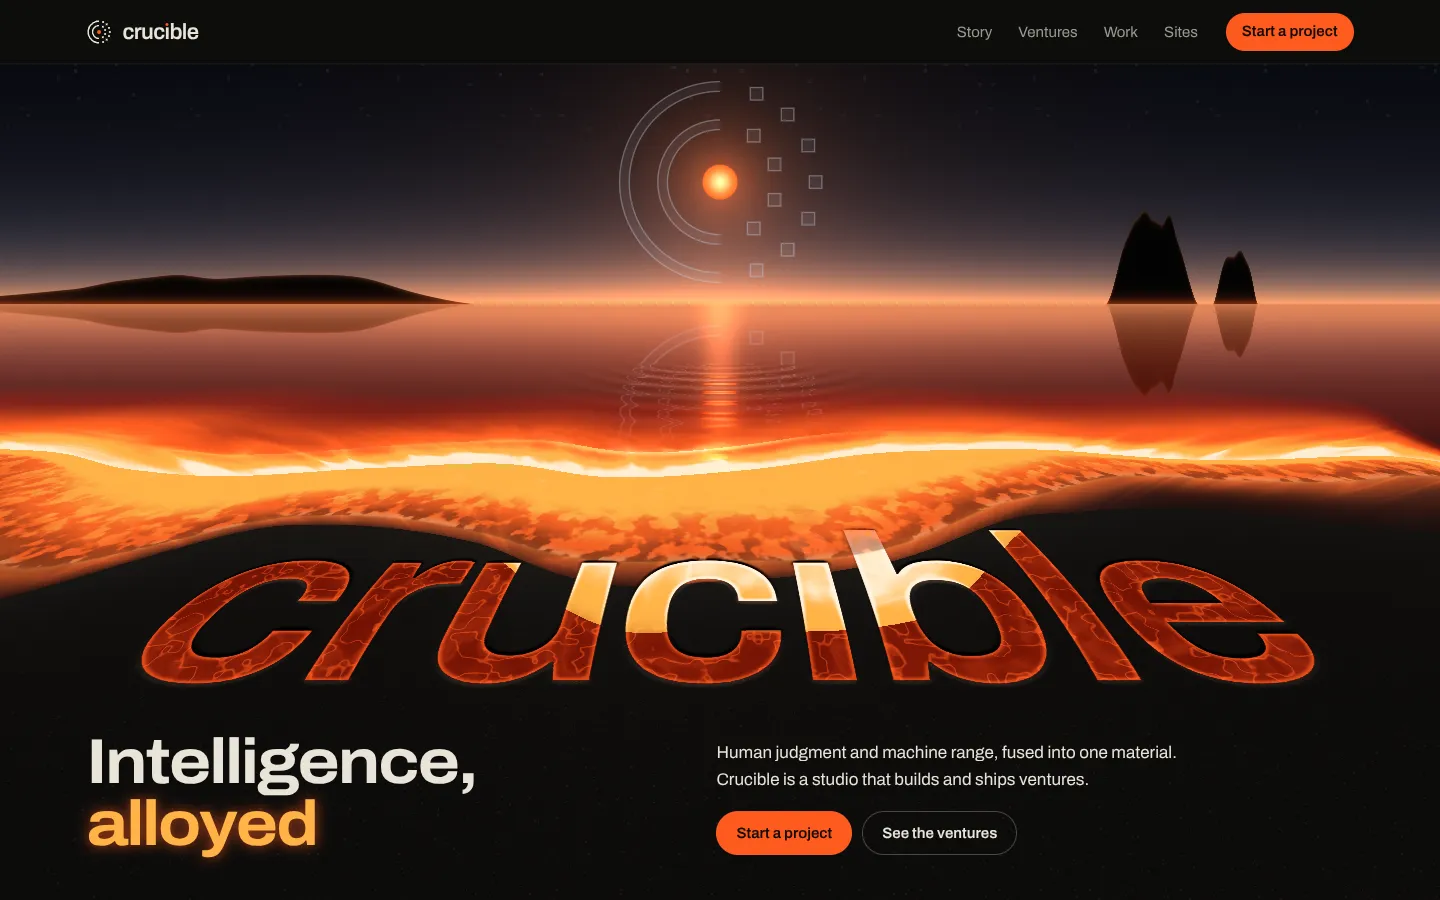
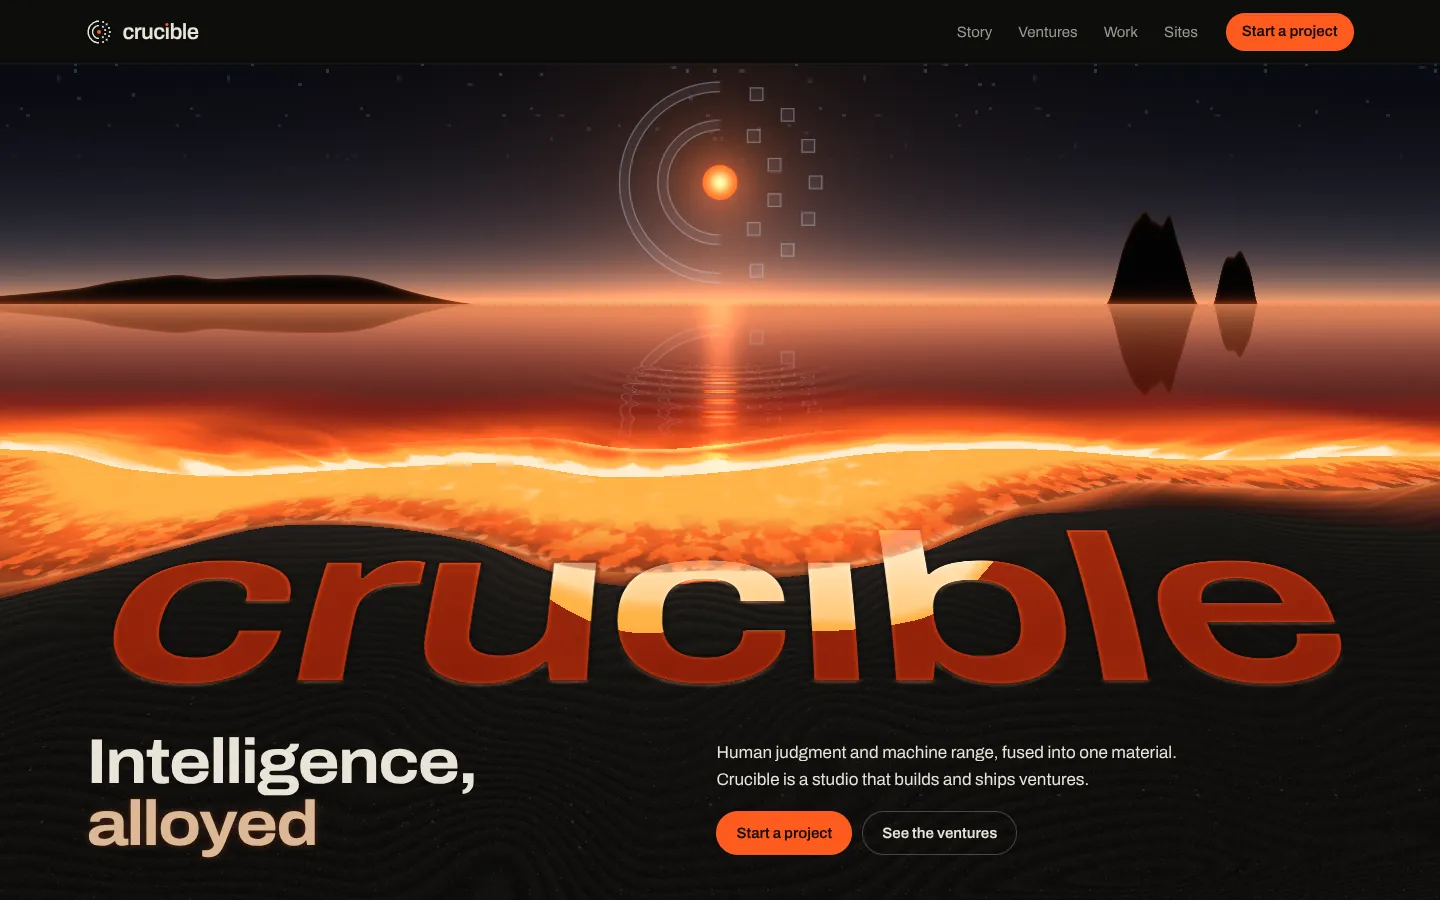
Black Sand v3: no edge fringe in the hero sea, textured sand, the wordmark as a clean sand mould
- the page-edge coast no longer reaches into the hero's perspective sea (no bright strips at its edges)
- the sand everywhere: grain, ripple marks lit from the surf, a warm wash from the fringe, rare cold sparkle
- the wordmark keeps its proportions (mild slant), crisp sand walls lit from the sea, a smooth fill with a
  soft cooling skin (no crack texture, no dark outline), an Ember dot
- slow-wake frames re-recorded

Claude-Session: https://claude.ai/code/session_01PrrUSitYmSR7aDjHHAhibr

diff --git a/concepts/blacksand/index.html b/concepts/blacksand/index.html
@@ -403,7 +403,7 @@ uniform float uHor, uHB, uDepth, uF, uNav;
 uniform vec3 uSun;          // sky px: x (from centre), y (above horizon), core radius
 uniform vec2 uSunG;         // ground point under it, where the ripples start
 uniform vec4 uShore;        // hero shore Z, hero run-up, footer shore Z, footer run-up
-uniform vec2 uStrip;        // strip run-up, coast texture length
+uniform vec3 uStrip;        // strip run-up, coast texture length, where the coast down the page begins (ground Z)
 uniform sampler2D uCoast;   // per 8 px of page: coast X, its slope, the run-up there (32-bit, interpolated here)
 uniform sampler2D uSim;     // r h, g h_prev, b furrow
 uniform vec4 uSimM;         // cell px, rem px, grid w, grid h (cells)
@@ -568,7 +568,7 @@ void main(){
   // ---------------- the coast ----------------
   float s1 = uShore.x + uShore.y*(.16*sin(G.x*.0021 + 1.3) + .09*sin(G.x*.0057 + 4.) + .12*(noise(vec2(G.x*.004, 9.)) - .5)) - G.y;       // hero shore, sea is far
   vec4 cc = coastAt(G.y);
-  float s2 = (G.x - cc.x)/sqrt(1. + cc.y*cc.y);                                  // the shore down the page, sea right
+  float s2 = G.y < uStrip.z ? -1e5 : (G.x - cc.x)/sqrt(1. + cc.y*cc.y);   // none inside the hero's sea                                  // the shore down the page, sea right
   float s3 = G.y - uShore.z;                                                     // the page's end, sea below
   float s = smax(smax(s1, s2, 160.), s3, 160.);
   float w1 = smoothstep(-60., 60., s1 - max(s2, s3)), w3 = smoothstep(-60., 60., s3 - max(s1, s2));
@@ -675,12 +675,22 @@ void main(){
     // black volcanic sand: grain at ~1.6 px, sparse glints
     float gr = noise(G*.62)*.6 + noise(G*1.7)*.4;
     gr = mix(.5, gr, 1. - smoothstep(1., 3., foot));
-    vec3 sand = vec3(.045, .042, .038)*(.72 + .56*gr);
-    // light from the surf on the sand
-    float glow = exp(-max(L - max(E, 0.), 0.)/110.)*.55 + exp(-L/420.)*.22;
+    vec3 sand = vec3(.05, .047, .042)*(.62 + .8*gr);
+    // ripple marks the tide left, parallel to the shore, their faces lit from the surf's side (band-limited)
+    float rw = 17. + 5.*noise(G*.006 + 11.);
+    float rph = (L + 5.*noise(G*.008) + 2.*noise(G*.03))*6.2832/rw;
+    float rAmp = (.45 + .55*noise(G*.004 + 5.))*(1. - smoothstep(.12, .25, foot/rw))*(1. - exp(-max(L, 0.)/40.));
+    float face = sin(rph) + .35*sin(2.*rph);
+    sand *= 1. + .2*face*rAmp;
+    // light from the surf on the sand: the near glow and a soft warm wash a few hundred px across it
+    float glow = exp(-max(L - max(E, 0.), 0.)/110.)*.55 + exp(-L/320.)*.3 + exp(-L/900.)*.08;
     glow *= heatK;
     vec3 warm = vec3(1., .42, .16);
-    col = sand*(1. + glow*2.2) + warm*glow*.022;
+    col = sand*(1. + glow*2.4) + warm*glow*.026;
+    // a very rare cold sparkle (Quench): starlight in a grain
+    vec2 sc2 = floor(G*.35);
+    float spk = step(.9975, hash(sc2 + 17.))*(1. - smoothstep(1.2, 2.4, foot));
+    col += QUENCH*spk*(.5 + .5*sin(t*1.7 + hash(sc2)*40.))*.16*(1. - glow);
     // glints in the grain: warm toward the surf, cold (Quench) from the sky away from it
     float gl = step(.985, hash(floor(G*.55)))*(1. - smoothstep(1., 2.2, foot));
     float tw = .5 + .5*sin(t*2. + hash(floor(G*.55) + 3.)*30. + css.y*.05);
@@ -708,8 +718,10 @@ void main(){
         vec3 metal = blackbody(.6 + .14*sin(bz.y*40. - t*3.) + .18*hov);
         col = mix(col + warm*.05*exp(-max(dd, 0.)/6.), metal, m);
       }
-      if (G.x < R.x || G.x > R.z || G.y < R.y || G.y > R.w) continue;
-      vec2 f = (G - R.xy)/(R.zw - R.xy);
+      // the wordmark keeps most of its true proportions: its sides converge only a little (a subtler slant)
+      vec2 Gt = i == 0 ? vec2(uView.x*.5 + (css.x - uView.x*.5)/pow(w, .3), G.y) : G;
+      if (Gt.x < R.x || Gt.x > R.z || Gt.y < R.y || Gt.y > R.w) continue;
+      vec2 f = (Gt - R.xy)/(R.zw - R.xy);
       vec2 uv = mix(uTA[i].xy, uTA[i].zw, f);
       vec4 a = texture(uAtlas, uv);
       vec2 tx = vec2(1.5/2048., 1.5/1024.);
@@ -720,11 +732,11 @@ void main(){
       float kd = uTP[i].w;
       vec3 nrm = normalize(vec3(rg.x*kd, 1., rg.y*kd));
       vec3 Ld = normalize(vec3(toSea.x, .55, toSea.y));
-      float sh = max(dot(nrm, Ld), 0.)/Ld.y;
+      float sh = clamp(max(dot(nrm, Ld), 0.)/Ld.y, .78, 2.2);   // lit wall bright, the far wall only a little shaded
       float mode = uTP[i].x, hov = uTP[i].z;
       // the walls of the mould catch the glow; the far wall from the light falls into shadow
       float wall = smoothstep(.0, .25, a.r)*(1. - a.g);
-      col = mix(col, col*sh*1.15 + warm*.06*max(sh - 1., 0.)*glow*4., wall);
+      col = mix(col, col*sh + warm*.13*max(sh - 1., 0.)*(.5 + glow*2.) + vec3(.5, .45, .4)*.02*max(sh - 1., 0.), wall);   // sand walls: the face toward the surf lit warm
       float m = a.g;
       vec3 metal;
       float rim = smoothstep(.5, 1., a.g)*(1. - smoothstep(.6, .98, a.r));
@@ -736,15 +748,16 @@ void main(){
         float dt2 = sinceLeft(Le, tau, A, aU, E2, up2, Ac2);
         float hT = exp(-dt2/3.2);
         // cooling metal grows a dark skin; its cracks and the rim against the wall stay bright longest
-        vec2 lp = uv*vec2(2048., 1024.)/26.; float cells = noise(lp + vec2(t*.05, 0.))*.65 + noise(lp*2.3)*.35;
-        float crk = 1. - smoothstep(.0, .05, abs(cells - .5));
-        float skin = smoothstep(.8, .3, hT)*(1. - crk);
-        float tmL = mix(.46, .93, hT) + .05*veins + rim*.1;
-        metal = mix(blackbody(tmL), blackbody(.30 + .1*veins), skin*(1. - rim*.7)*.8);
+        // a clean fill: a smooth glow that grows a soft skin as it cools, the edges against the wall last
+        vec2 lp = uv*vec2(2048., 1024.)/140.;
+        float skinN = noise(lp + vec2(t*.03, 0.))*.6 + noise(lp*2.1)*.4;
+        float skin = smoothstep(.85, .25, hT)*(.75 + .25*skinN);
+        float tmL = mix(.48, .93, hT) + rim*.015 + (.6 - f.y)*.1;   // hotter where it came in, at the top
+        metal = mix(blackbody(tmL), blackbody(.36 + .06*skinN), skin*(1. - rim*.6)*.8);
         typeHot = m;
         // the dot of the i: the core, always hot
         float dot_ = a.b;
-        metal = mix(metal, mix(vec3(1., .357, .122), vec3(1., .78, .5), smoothstep(.5, 1., a.b)*.6), smoothstep(.2, .8, dot_));
+        metal = mix(metal, vec3(1., .357, .122)*1.05, smoothstep(.2, .8, dot_));
         m = max(m, smoothstep(.2, .6, a.b));
       } else if (mode < 1.5){
         // Crucible Sites: cast and cooled to bone, sand grain in its face
@@ -972,7 +985,7 @@ function buildAtlas(ventureEls) {
       }
     }
   };
-  for (let p = 0; p < 3; p++) { blur(soft, tmp, 5, true); blur(tmp, soft, 5, false); }
+  for (let p = 0; p < 3; p++) { blur(soft, tmp, 4, true); blur(tmp, soft, 4, false); }
   const out = new Uint8Array(N * 4);
   for (let i = 0; i < N; i++) { out[i * 4] = Math.round(Math.min(1, soft[i] * 1.0) * 255); out[i * 4 + 1] = img.data[i * 4]; out[i * 4 + 2] = dimg.data[i * 4]; out[i * 4 + 3] = 255; }
   if (!atlasTex) atlasTex = tex(W, H, gl.RGBA8, gl.RGBA, gl.UNSIGNED_BYTE, gl.LINEAR, out);
@@ -1022,10 +1035,10 @@ function layout() {
     const e = AT.entries[0];
     const wScr = Math.min(L.W - (phone ? 56 : 2 * Math.max(20, L.W * 0.05)), 1500);
     const wb = gW(yWB);
-    const Wg = wScr / wb, Hg = Wg / e.aspect;
+    const Wg = wScr / Math.pow(wb, 0.3), Hg = (wScr / wb) / e.aspect;   // lateral: the shader's milder convergence
     const Zb = gZ(yWB), Zt = Zb - Hg;
     const X0 = L.W / 2 - Wg / 2;
-    L.types.push({ R: [X0, Zt, X0 + Wg, Zb], A: [e.u0, e.v0, e.u1, e.v1], P: [0, Zt + Hg * e.topFrac - shoreZ, 0, 10] });
+    L.types.push({ R: [X0, Zt, X0 + Wg, Zb], A: [e.u0, e.v0, e.u1, e.v1], P: [0, Zt + Hg * e.topFrac - shoreZ, 0, 14] });
     // the run-up reaches into the tops of the letters on most waves
     L.shore[1] = Math.max(30, (Zt + Hg * e.topFrac - shoreZ) * 1.35);
     // venture names
@@ -1033,7 +1046,7 @@ function layout() {
       const en = AT.entries[i + 1]; if (!en) return;
       const r = pageRect(el), p = en.padG;
       const mode = i === 0 ? 1 : 2;
-      L.types.push({ R: [r.x0 - p, r.y0 - p, r.x1 + p, r.y1 + p], A: [en.u0, en.v0, en.u1, en.v1], P: [mode, 0, 0, 7], el: ventureEls[i], hov: 0 });
+      L.types.push({ R: [r.x0 - p, r.y0 - p, r.x1 + p, r.y1 + p], A: [en.u0, en.v0, en.u1, en.v1], P: [mode, 0, 0, 5], el: ventureEls[i], hov: 0 });
     });
   }
   // the coast down the page: hugs the right edge of everything on the sand, opens into coves between sections
@@ -1063,6 +1076,7 @@ function layout() {
   const base = L.W * (phone ? 0.96 : 0.95);
   const cove = phone ? L.W * 0.56 : L.W * 0.62;
   const stripStart = L.HB - (phone ? 0 : L.H * 0.1);
+  L.stripStart = stripStart;
   const arr = new Float32Array(N);
   for (let i = 0; i < N; i++) {
     const Z = i * 8;
@@ -1321,7 +1335,7 @@ function render() {
   gl.uniform3f(u.uSun, L.sun[0], L.sun[1] + bob, L.sun[2]);
   gl.uniform2f(u.uSunG, L.sunG[0], L.sunG[1]);
   gl.uniform4f(u.uShore, L.shore[0], L.shore[1], L.shore[2], L.shore[3]);
-  gl.uniform2f(u.uStrip, L.stripA, L.coastN);
+  gl.uniform3f(u.uStrip, L.stripA, L.coastN, L.stripStart);
   gl.activeTexture(gl.TEXTURE1); gl.bindTexture(gl.TEXTURE_2D, coastTex); gl.uniform1i(u.uCoast, 1);
   gl.activeTexture(gl.TEXTURE2); gl.bindTexture(gl.TEXTURE_2D, SIM.on ? SIM.tex[SIM.cur] : coastTex); gl.uniform1i(u.uSim, 2);
   gl.uniform4f(u.uSimM, SIM.cell, SIM.rem * SIM.cell, SIM.gw, SIM.gh); gl.uniform1f(u.uSimOn, SIM.on ? 1 : 0);

diff --git a/concepts/blacksand/NOTES.md b/concepts/blacksand/NOTES.md
@@ -41,8 +41,12 @@ atlas and a 1-D coast profile):
 - **The coast through the page**: a thin, quiet fringe (5% of the width, 4% on phones) beside reading sections, coves
   between sections, and one bay at the ventures (`data-cove`). The profile is 32-bit, interpolated in the shader, and
   the text envelope is rounded with a parabolic dilation so the shoreline never kinks; the run-up varies per row.
+- **The sand is never a void**: fine grain, ripple marks parallel to the shore lit from the surf's side (band-limited),
+  a warm wash falling off a few hundred px from the fringe, and a very rare cold (Quench) sparkle.
 - **Type in the sand**: a canvas atlas of the wordmark and venture names (Archivo), blurred for the mould's walls.
-  Lit from the sea's side, it's filled with metal: the wordmark by the surf, Crucible Sites cast and cooled to bone (it's
+  Lit from the sea's side (crisp sand walls, the face toward the surf lit warm), it's filled with metal: the wordmark, in
+  its true proportions with only a slight perspective slant, by the surf (a smooth glow that grows a soft skin as it
+  cools, hottest where it came in), Crucible Sites cast and cooled to bone (it's
   live), Verge and Trellis still molten (one seamless glow: still forging), each fed by a thin channel curving to the bay.
   Hover/focus/tap heats a venture's cast and its "Open" control turns Ember.
 - **PayPal delta**: centred under "PayPal" (eBay buys it, 2002). Desktop: the river fans into six channels ending in
